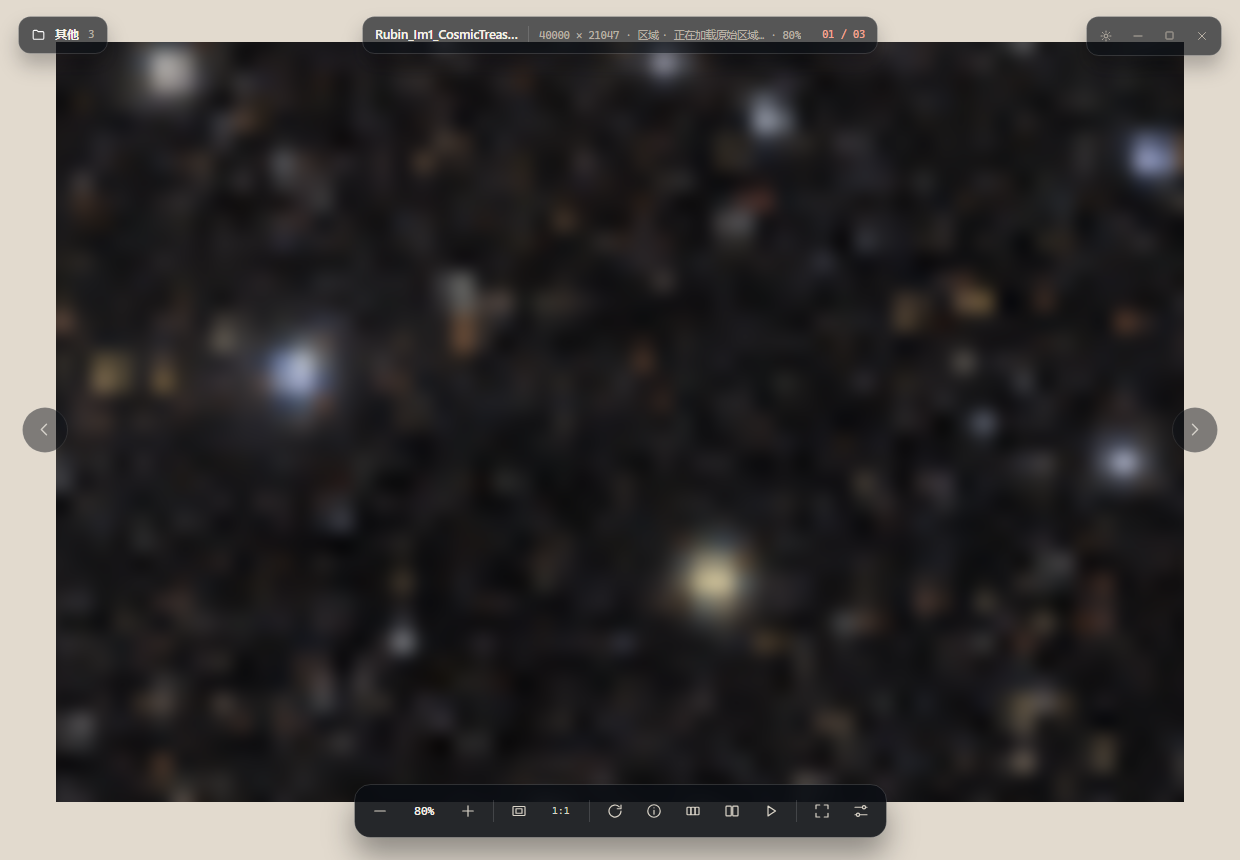
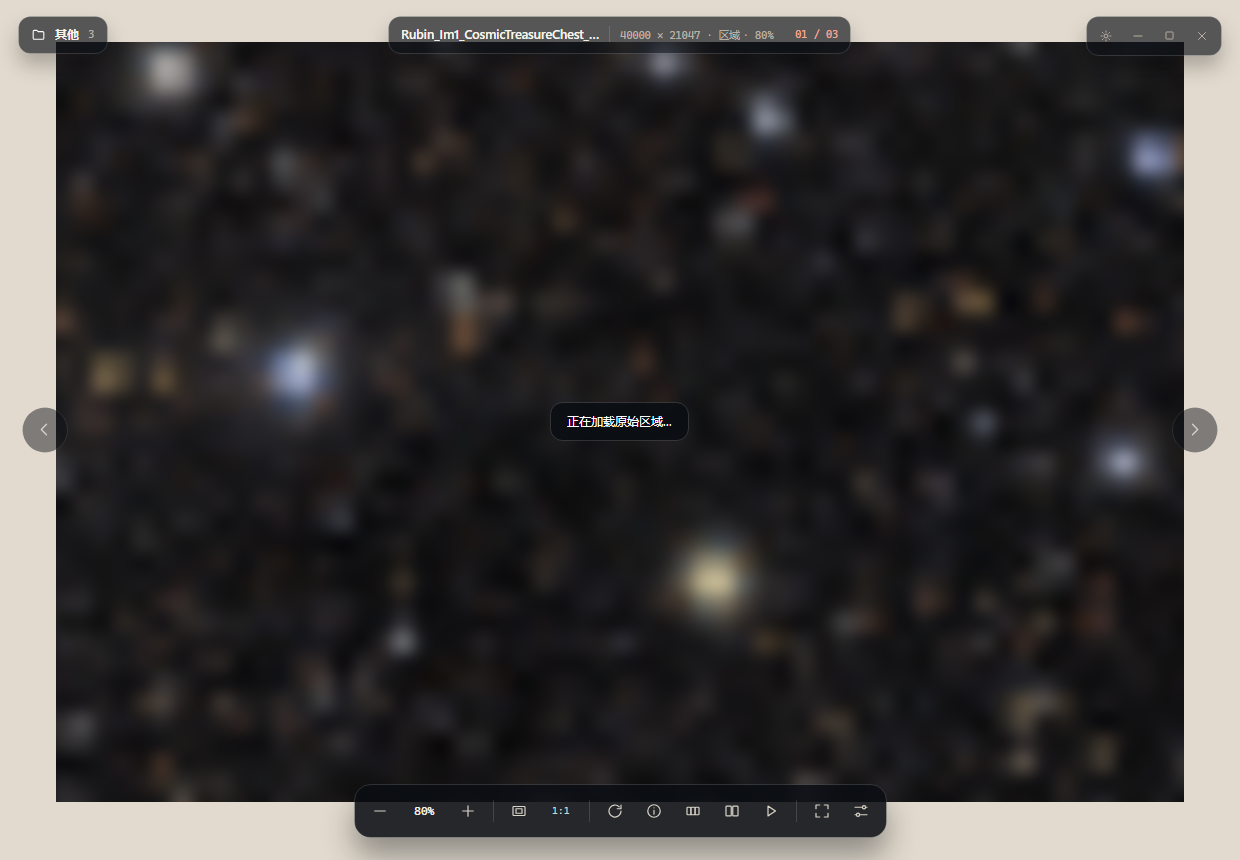
fix: center region loading overlay on the image
Move the region loading message out of the file header into a centered overlay over the image area, defer tile loading notifications outside the render pass, and hide the overlay once visible region tiles finish loading.

Changed region(s): [[0.2758, 0.0, 0.7048, 0.0605], [0.4597, 0.4837, 0.5516, 0.514]]

diff --git a/src/AirGlance.App/Views/MainWindow.axaml.cs b/src/AirGlance.App/Views/MainWindow.axaml.cs
@@ -57,6 +57,7 @@ public partial class MainWindow : Window
     private ContentControl InfoContentHost = null!;
     private Border EmptyCard = null!;
     private Border LoadingChip = null!;
+    private Border TileLoadingChip = null!;
     private Border DragOverlay = null!;
     private Border ToastBorder = null!;
     private Border FullscreenHint = null!;
@@ -70,6 +71,7 @@ public partial class MainWindow : Window
     private TextBlock OverlayMessage = null!;
     private TextBlock OverlayHint = null!;
     private TextBlock LoadingText = null!;
+    private TextBlock TileLoadingText = null!;
     private TextBlock DropHintText = null!;
     private TextBlock TransientMessageText = null!;
     private TextBlock DockZoomText = null!;
@@ -207,6 +209,27 @@ public partial class MainWindow : Window
         Viewer.ZoomChanged += OnViewerZoomChanged;
         Viewer.ViewportChanged += OnViewerViewportChanged;
         canvasGrid.Children.Add(Viewer);
+
+        TileLoadingChip = new Border
+        {
+            IsVisible = false,
+            IsHitTestVisible = false,
+            HorizontalAlignment = HorizontalAlignment.Center,
+            VerticalAlignment = VerticalAlignment.Center,
+            Background = new SolidColorBrush(Color.Parse("#E60A0E13")),
+            BorderBrush = new SolidColorBrush(Color.Parse("#24FFFFFF")),
+            BorderThickness = new Thickness(1),
+            CornerRadius = new CornerRadius(12),
+            Padding = new Thickness(16, 10)
+        };
+        TileLoadingChip.SetValue(Panel.ZIndexProperty, 30);
+        TileLoadingText = new TextBlock
+        {
+            Foreground = Brushes.White,
+            FontSize = 12
+        };
+        TileLoadingChip.Child = TileLoadingText;
+        canvasGrid.Children.Add(TileLoadingChip);
 
         LoadingChip = new Border();
         LoadingChip.Classes.Add("loading-chip");
@@ -719,6 +742,7 @@ public partial class MainWindow : Window
     private void ApplyLanguage()
     {
         LoadingText.Text = _services.Localization.T("L.Loading");
+        TileLoadingText.Text = _services.Localization.T("L.LoadingRegion");
         DropHintText.Text = _services.Localization.T("L.DropHint");
         AutomationProperties.SetName(MinimizeButton, _services.Localization.T("L.Minimize"));
         AutomationProperties.SetName(MaximizeButton, _services.Localization.T("L.Maximize"));
@@ -806,6 +830,7 @@ public partial class MainWindow : Window
         OverlayHint.IsVisible = !string.IsNullOrEmpty(_viewModel.OverlayHint);
 
         LoadingChip.IsVisible = _viewModel.IsLoading;
+        TileLoadingChip.IsVisible = _viewModel.ShowRegionLoading;
         InfoHost.IsVisible = _viewModel.InfoShown;
         InfoHost.Margin = _viewModel.FilmstripShown
             ? new Thickness(0, 82, 22, 150)

diff --git a/src/AirGlance.App/ViewModels/MainWindowViewModel.cs b/src/AirGlance.App/ViewModels/MainWindowViewModel.cs
@@ -87,6 +87,9 @@ public sealed partial class MainWindowViewModel : ObservableObject, IDisposable
     private bool _isRegionOpening;
     private bool _regionActive;
     private bool _regionLoading;
+
+    [ObservableProperty]
+    private bool _showRegionLoading;
     private ThumbnailService? _thumbnails;
     private bool _thumbnailsPending;
     private bool _slideshowBusy;
@@ -580,6 +583,7 @@ public sealed partial class MainWindowViewModel : ObservableObject, IDisposable
 
             _regionActive = true;
             _regionLoading = true;
+            ShowRegionLoading = true;
             PublishTiled(tiles);
             UpdateStatus(metadata);
         }
@@ -825,6 +829,7 @@ public sealed partial class MainWindowViewModel : ObservableObject, IDisposable
         _fullLoaded = false;
         _regionActive = false;
         _isRegionOpening = false;
+        ShowRegionLoading = false;
         _edit = EditTransform.None;
         _editVersion++;
 
@@ -1068,6 +1073,7 @@ public sealed partial class MainWindowViewModel : ObservableObject, IDisposable
         }
 
         _regionLoading = _tiledSource?.PendingTileCount > 0;
+        ShowRegionLoading = _regionLoading;
         UpdateStatus(metadata);
     }
 
@@ -1176,6 +1182,9 @@ public sealed partial class MainWindowViewModel : ObservableObject, IDisposable
         }
 
         _tiledSource = null;
+        _regionActive = false;
+        _regionLoading = false;
+        ShowRegionLoading = false;
         var oldBitmap = _currentBitmap;
         var oldAnimation = _currentAnimation;
 
@@ -1534,8 +1543,7 @@ public sealed partial class MainWindowViewModel : ObservableObject, IDisposable
             ? string.Concat(
                 dimensions,
                 " · ",
-                _services.Localization.T("L.Region"),
-                _regionLoading ? " · " + _services.Localization.T("L.LoadingRegion") : string.Empty)
+                _services.Localization.T("L.Region"))
             : _rawDecoded?.IsProxy == true
                 ? string.Concat(
                     dimensions,

diff --git a/src/AirGlance.App/Imaging/TiledImageSource.cs b/src/AirGlance.App/Imaging/TiledImageSource.cs
@@ -284,7 +284,7 @@ public sealed class TiledImageSource : IDisposable
         {
             if (_pendingRegionTiles.TryAdd(index, 0))
             {
-                TileLoadingChanged?.Invoke(this, EventArgs.Empty);
+                RaiseTileLoadingChanged();
                 _ = LoadRegionTileAsync(column, row, index);
             }
 
@@ -295,6 +295,11 @@ public sealed class TiledImageSource : IDisposable
         CacheTile(index, bitmap);
         return bitmap;
     }
+
+    private void RaiseTileLoadingChanged() =>
+        Dispatcher.UIThread.Post(
+            () => TileLoadingChanged?.Invoke(this, EventArgs.Empty),
+            DispatcherPriority.Background);
 
     private void CacheTile(int index, WriteableBitmap bitmap)
     {
@@ -339,7 +344,7 @@ public sealed class TiledImageSource : IDisposable
                     CacheTile(index, bitmap);
                     _pendingRegionTiles.TryRemove(index, out _);
                     TileAvailable?.Invoke(this, EventArgs.Empty);
-                    TileLoadingChanged?.Invoke(this, EventArgs.Empty);
+                    RaiseTileLoadingChanged();
                 });
             }
             finally
@@ -352,7 +357,7 @@ public sealed class TiledImageSource : IDisposable
             await Dispatcher.UIThread.InvokeAsync(() =>
             {
                 _pendingRegionTiles.TryRemove(index, out _);
-                TileLoadingChanged?.Invoke(this, EventArgs.Empty);
+                RaiseTileLoadingChanged();
             });
         }
     }

diff --git a/docs/design/large-tiff-plan-a.md b/docs/design/large-tiff-plan-a.md
@@ -35,7 +35,7 @@
 - 只加载当前视口和周边 tile；
 - tile 未就绪时继续显示代理图；
 - tile 就绪后覆盖到代理图上，逐渐变清晰；
-- 状态栏显示 `区域`；tile 加载期间显示 `区域 · 正在加载原始区域…`；
+- 状态栏显示 `区域`；tile 加载期间在**图片内容区域居中显示“正在加载原始区域…”**，加载完成后自动隐藏；
 - 快速缩放到 80%/100% 时直接进入区域模式，避免先等 2K/4K/8K 代理升级；
 - 不生成完整原图或金字塔；
 - 当前只对 libvips 可随机读取的 TIFF 生效，例如 Cosmic。
@@ -84,8 +84,8 @@ P0 实测：
 ## 包
 
 - `artifacts/local-0.4.0-plan-a/AirGlance-0.4.0-plan-a-win-x64.zip`
-- 约 **27.57 MB**（28,913,375 bytes；增加约 7.7 MB 压缩包体）
[1 lines of base64/hex data omitted]
+- 约 **27.57 MB**（28,914,562 bytes；增加约 7.7 MB 压缩包体）
[1 lines of base64/hex data omitted]
 - 包含 `libvips-42.dll`
 
 ## 已知限制
